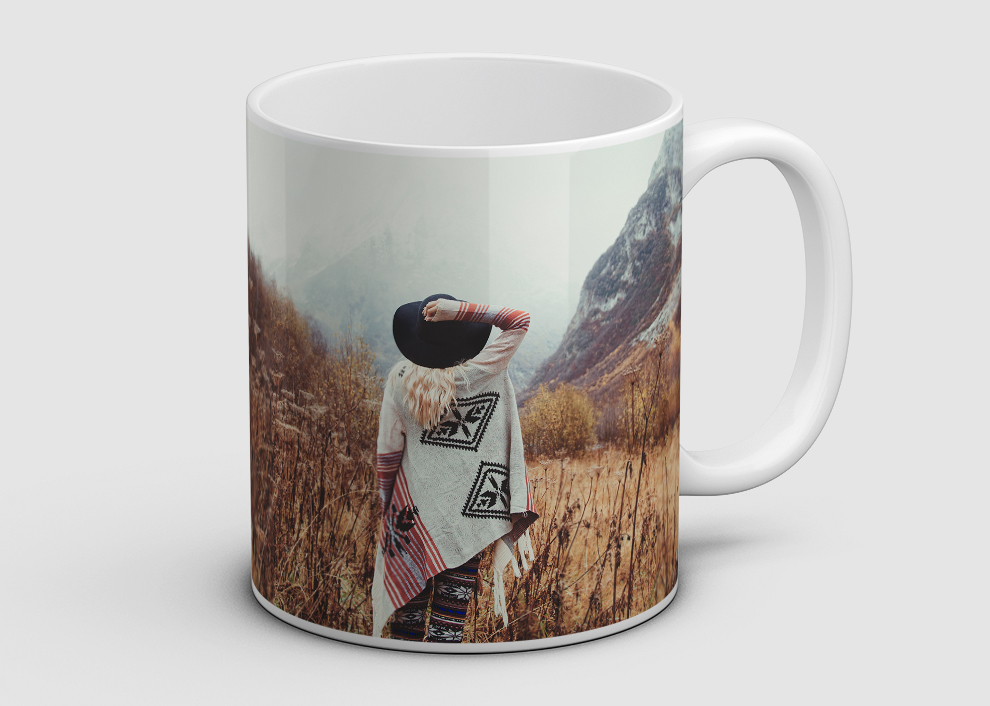
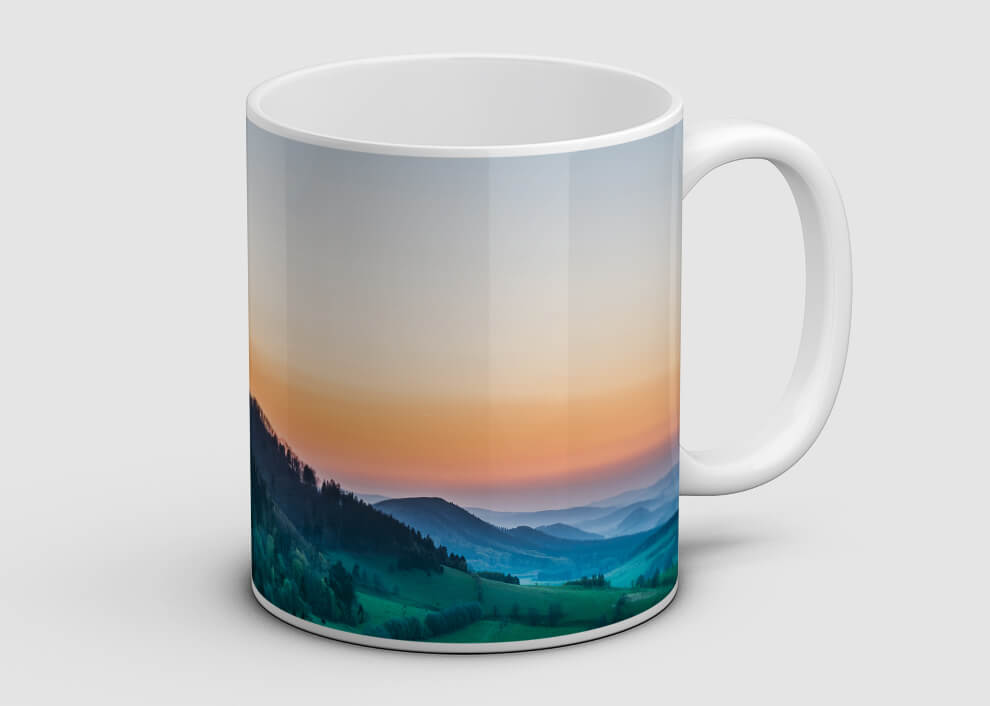
foto cambia producto detail

Changed region(s): [[0.2424, 0.1558, 0.697, 0.9348]]

diff --git a/Aplicatiuweb/Vistes/product_detail.php b/Aplicatiuweb/Vistes/product_detail.php
@@ -28,16 +28,13 @@
             <img width="60" height="60" class="rounded-2" onclick="changeImage(this)" src="../img/product_picanova/ima1.jpg" />
           </a>
           <a data-fslightbox="mygalley" class="border mx-1 rounded-2" target="_blank" data-type="image" class="item-thumb">
-            <img width="60" height="60" class="rounded-2" onclick="changeImage(../img/product_picanova/ima2.jpg)" src="../img/product_picanova/ima2.jpg" />
+            <img width="60" height="60" class="rounded-2" onclick="changeImage(this)" src="../img/product_picanova/ima2.jpg" />
           </a>
-          <a data-fslightbox="mygalley" class="border mx-1 rounded-2" target="_blank" data-type="image" href="https://bootstrap-ecommerce.com/bootstrap5-ecommerce/images/items/detail1/big3.webp" class="item-thumb">
+          <a data-fslightbox="mygalley" class="border mx-1 rounded-2" target="_blank" data-type="image" class="item-thumb">
             <img width="60" height="60" class="rounded-2" onclick="changeImage(this)" src="../img/product_picanova/ima3.jpg" />
           </a>
-          <a data-fslightbox="mygalley" class="border mx-1 rounded-2" target="_blank" data-type="image" href="https://bootstrap-ecommerce.com/bootstrap5-ecommerce/images/items/detail1/big4.webp" class="item-thumb">
-            <img width="60" height="60" class="rounded-2" src="https://bootstrap-ecommerce.com/bootstrap5-ecommerce/images/items/detail1/big4.webp" />
-          </a>
-          <a data-fslightbox="mygalley" class="border mx-1 rounded-2" target="_blank" data-type="image" href="https://bootstrap-ecommerce.com/bootstrap5-ecommerce/images/items/detail1/big.webp" class="item-thumb">
-            <img width="60" height="60" class="rounded-2" src="https://bootstrap-ecommerce.com/bootstrap5-ecommerce/images/items/detail1/big.webp" />
+          <a data-fslightbox="mygalley" class="border mx-1 rounded-2" target="_blank" data-type="image" class="item-thumb">
+            <img width="60" height="60" class="rounded-2" onclick="changeImage(this)" src="../img/product_picanova/ima4.jpg" />
           </a>
         </div>
         <!-- thumbs-wrap.// -->
